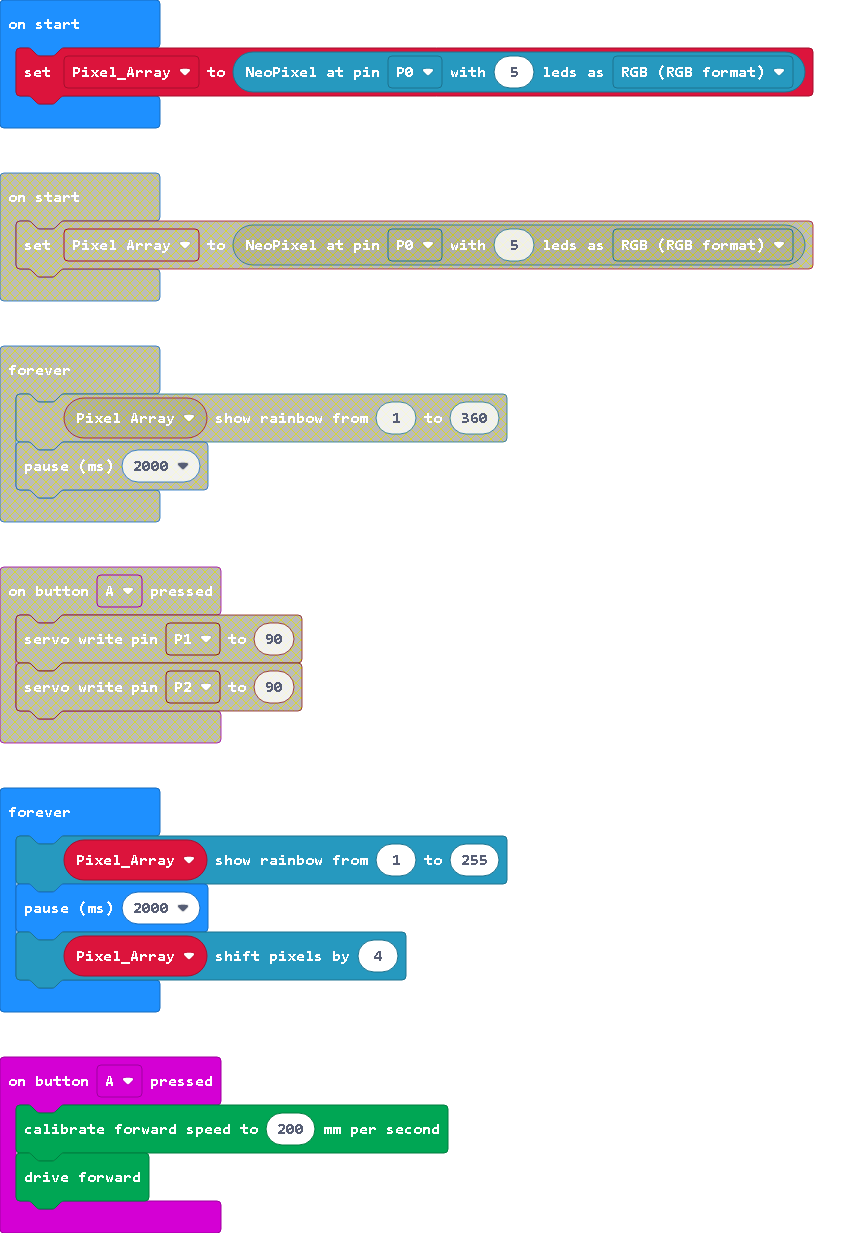
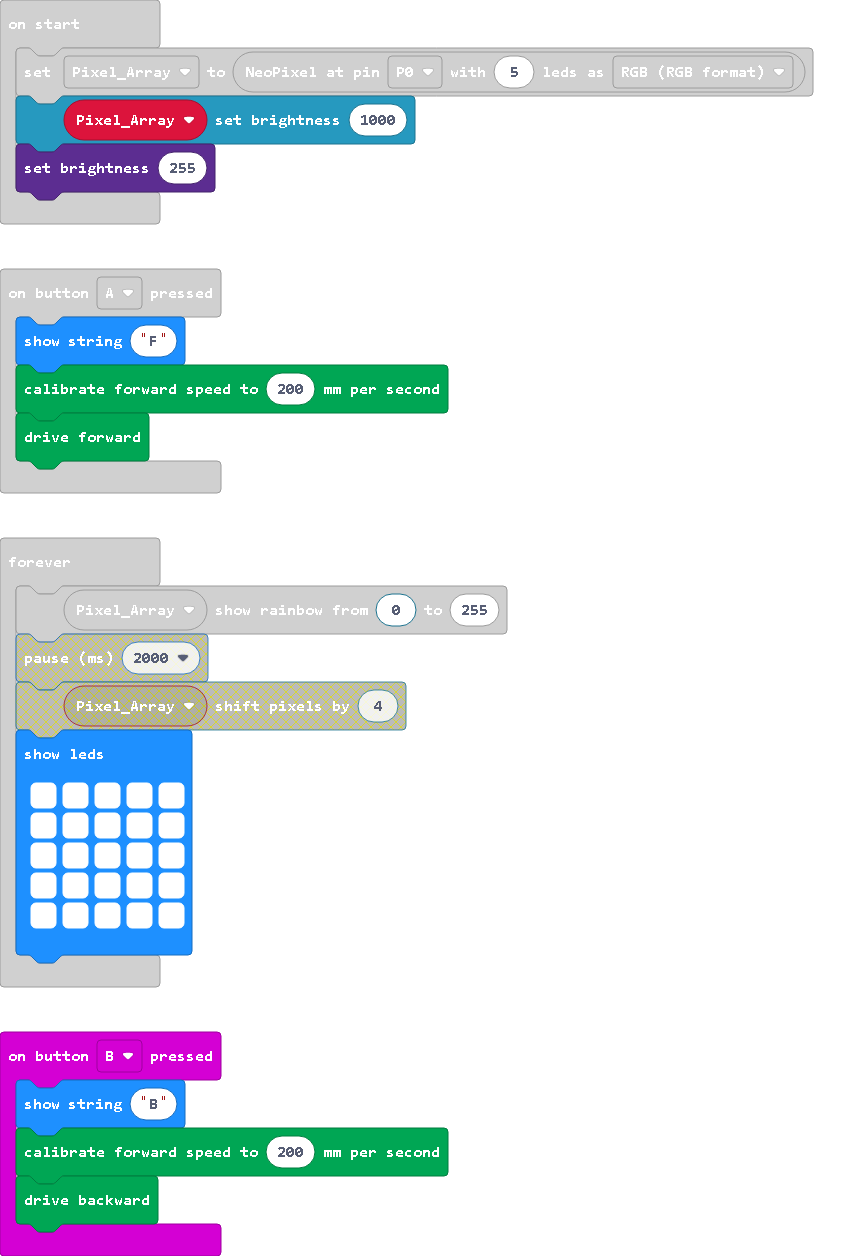
Update main.blocks, main.ts, main.py

Changed region(s): [[0.0, 0.0, 0.9676, 0.9862]]

diff --git a/main.ts b/main.ts
@@ -1,10 +1,23 @@
 input.onButtonPressed(Button.A, function () {
+    basic.showString("F")
     kitronik_servo_lite.setDistancePerSecond(200)
     kitronik_servo_lite.forward()
 })
+input.onButtonPressed(Button.B, function () {
+    basic.showString("B")
+    kitronik_servo_lite.setDistancePerSecond(200)
+    kitronik_servo_lite.backward()
+})
 let Pixel_Array = neopixel.create(DigitalPin.P0, 5, NeoPixelMode.RGB_RGB)
+Pixel_Array.setBrightness(1000)
+led.setBrightness(255)
 basic.forever(function () {
-    Pixel_Array.showRainbow(1, 255)
-    basic.pause(2000)
-    Pixel_Array.shift(4)
+    Pixel_Array.showRainbow(0, 255)
+    basic.showLeds(`
+        # # # # #
+        # # # # #
+        # # # # #
+        # # # # #
+        # # # # #
+        `)
 })

diff --git a/main.py b/main.py
@@ -1,11 +1,21 @@
 def on_button_pressed_a():
+    basic.show_string("F")
+    kitronik_servo_lite.set_distance_per_second(200)
     kitronik_servo_lite.forward()
 input.on_button_pressed(Button.A, on_button_pressed_a)
+
+def on_button_pressed_b():
+    basic.show_string("B")
+    kitronik_servo_lite.set_distance_per_second(200)
+    kitronik_servo_lite.backward()
+input.on_button_pressed(Button.B, on_button_pressed_b)
 
 Pixel_Array = neopixel.create(DigitalPin.P0, 5, NeoPixelMode.RGB_RGB)
 
 def on_forever():
-    Pixel_Array.show_rainbow(1, 360)
+    Pixel_Array.set_brightness(1000)
+    Pixel_Array.show_rainbow(0, 255)
     basic.pause(2000)
-    Pixel_Array.shift(1)
+    basic.show_string("" + str((Pixel_Array.power())))
+    basic.pause(2000)
 basic.forever(on_forever)
